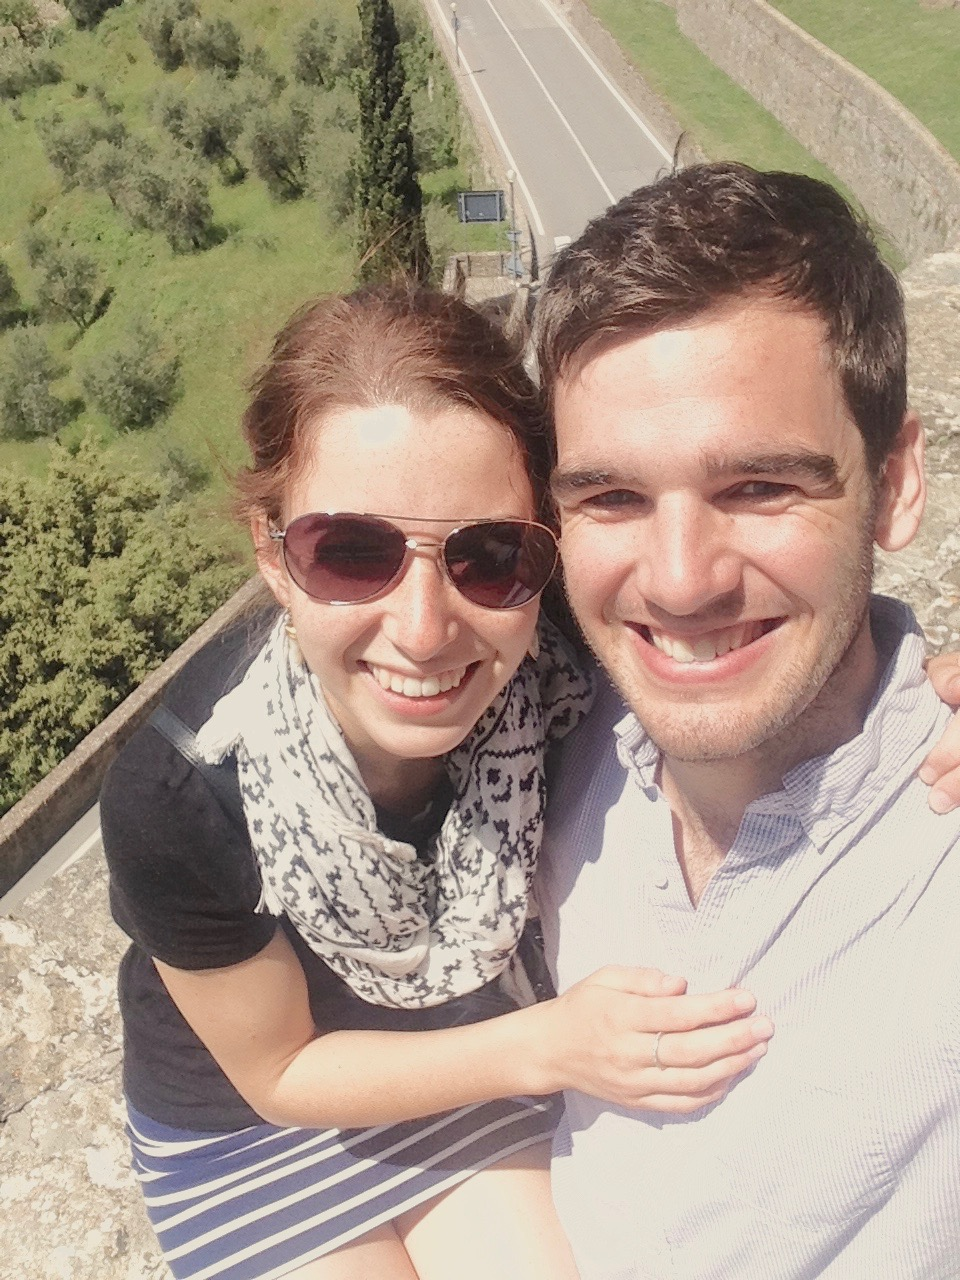
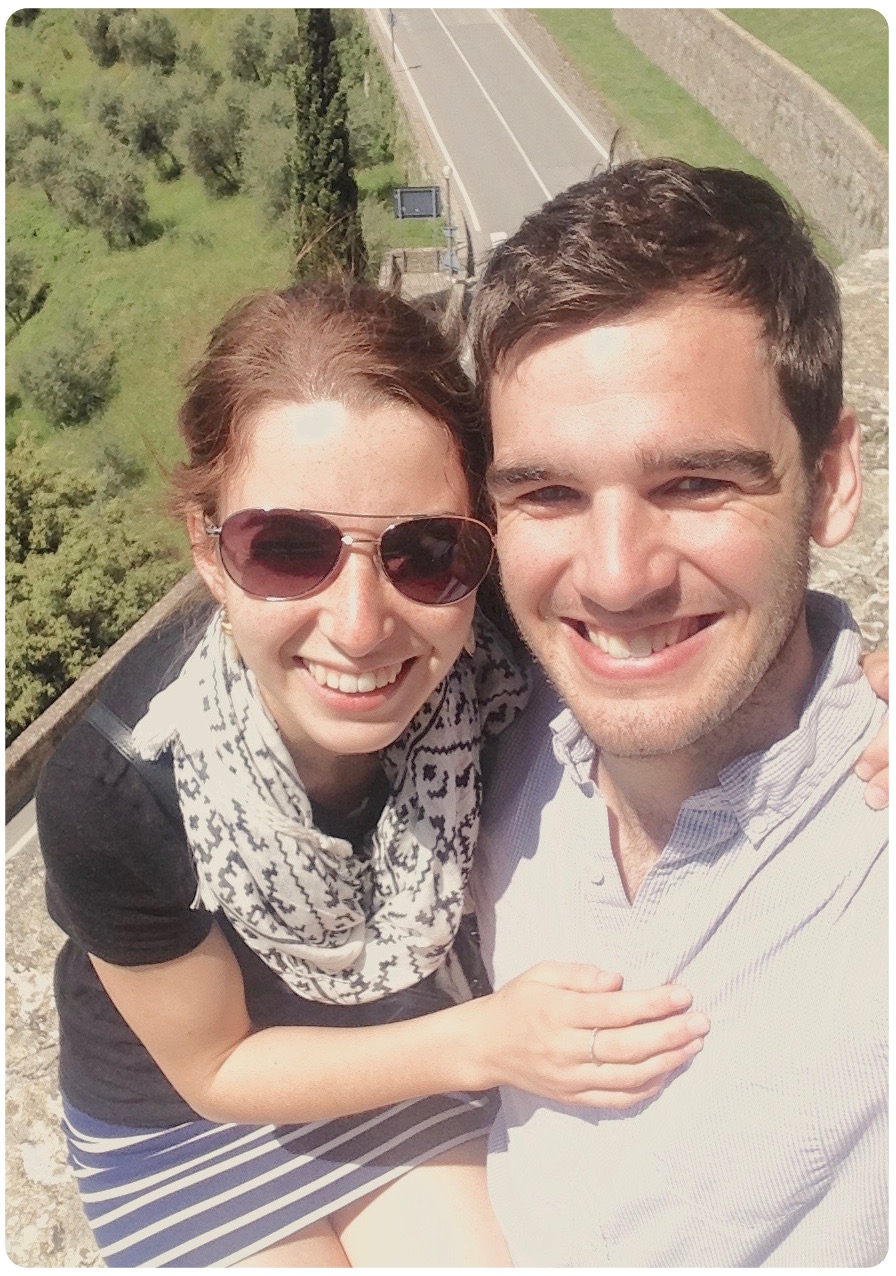
reformatting logistics
and add rounded corners to dan and kelsey picture

diff --git a/static/index.html b/static/index.html
@@ -266,26 +266,28 @@
 <div class="cd-color-1">
     <div class="container">
         <a name="details" class="anchor">anchor</a>
-        <div class="row section small-padding">
-            <h4>Useful Details</h4>
-            <p><b>Venue</b></p>
-            <p>The venue is a small estate situated on a seaside cliff off Highway 1 in Big Sur.</p>
-            <p><b>Weather</b></p>
-            <p>Expect sunny daytime temperatures in the high seventies and evening temperatures in the fifties. Some wind and fog is possible. Rain is very unlikely.</p>
-            <p><b>Schedule</b></p>
-            <ul>
-                <li>2:30pm - guests begin arriving</li>
-                <li>3:30pm - ceremony outside next to the ocean</li>
-                <li>4:30pm - cocktail hour</li>
-                <li>6:00pm - dinner on the deck followed by toasts</li>
-            </ul>
-            <p>Sunset is at 7:30pm with dancing to follow.</p>
-            <p><b>Transportation</b></p>
-            <p>Parking is very limited, so we are providing shuttle service from Carmel to the venue in Big Sur.</p>
-            <p>Pick-up and drop-off at Starbucks at The Crossroads Carmel, 3650 Rio Rd, Carmel, CA 93923. Approximately 1 hour drive time. </p>
-            <p>Departing pick-up times are 1:00 pm and 1:30 pm. Return pick-up times are 8:00 pm and 9:30 pm.</p>
-            <p><b>Attire</b></p>
-            <p>Summer cocktail party.</p>
+        <div class="row section small-padding"><h4>Useful Details</h4></div>
+        <div class="row section small-padding left">
+            <div class="six columnns">
+                <p><b>Venue</b></p>
+                <p>The venue is a small estate situated on a seaside cliff off Highway 1 in Big Sur.</p>
+                <p><b>Weather</b></p>
+                <p>Expect sunny daytime temperatures in the high seventies and evening temperatures in the fifties. Some wind and fog is possible. Rain is very unlikely.</p>
+                <p><b>Attire</b></p>
+                <p>Summer cocktail party.</p>
+            </div>
+            <div class="six columns">
+              <p><b>Schedule</b></p>
+              <ul>
+                  <li>2:30pm - guests begin arriving</li>
+                  <li>3:30pm - ceremony outside next to the ocean</li>
+                  <li>4:30pm - cocktail hour</li>
+                  <li>6:00pm - dinner on the deck followed by toasts</li>
+              </ul>
+              <p>Sunset is at 7:30pm with dancing to follow.</p>
+              <p><b>Transportation</b></p>
+              <p>Parking is very limited, so we are providing shuttle service from Carmel to the venue in Big Sur.<br>Pick-up and drop-off at Starbucks at The Crossroads Carmel, 3650 Rio Rd, Carmel, CA 93923. Approximately 1 hour drive time.<br>Departing pick-up times are 1:00 pm and 1:30 pm. Return pick-up times are 8:00 pm and 9:30 pm.</p>
+            </div>
         </div>
     </div>
 </div>

diff --git a/static/css/custom.css b/static/css/custom.css
@@ -105,7 +105,7 @@ body, html, main {
 }
 
 /* Hi Res iPad*/
-@media only screen and (min-device-width : 768px) and (max-device-width : 1024px) and (-webkit-min-device-pixel-ratio: 2) { 
+@media only screen and (min-device-width : 768px) and (max-device-width : 1024px) and (-webkit-min-device-pixel-ratio: 2) {
         .cd-fixed-bg{
         background-attachment: scroll;
     }
@@ -165,6 +165,10 @@ body, html, main {
 
 /* Logistics
  –––––––––––––––––––––––––––––––––––––––––––––––––– */
+.left {
+  text-align: left;
+}
+
 #big-day-bg {
     background-color: rgb(230,230,230) ;
     padding: 2.5%;
@@ -191,8 +195,8 @@ body, html, main {
 }
 
  .overlay {
-   background:transparent; 
-   position:relative; 
+   background:transparent;
+   position:relative;
    height:450px; /* your iframe height */
    top:450px;  /* your iframe height */
    margin-top:-450px;  /* your iframe height */
@@ -217,7 +221,7 @@ body, html, main {
 
 .explore-img {
     background-repeat: no-repeat;
-    background-position: left; 
+    background-position: left;
     background-size: auto 100% ;
     height: 300px;
 }
@@ -229,22 +233,22 @@ body, html, main {
 
 #julia-pfeiffer {
     background-image: url("../images/JuliaPfeiffer.jpg");
-    background-position: left; 
+    background-position: left;
 }
 
 #carmel {
     background-image: url("../images/carmel.jpg");
-    background-position: center; 
+    background-position: center;
 }
 
 #bixby {
     background-image: url("../images/bixby.jpg");
-    background-position: center; 
+    background-position: center;
 }
 
 #santalucia {
     background-image: url("../images/santalucia.jpg");
-    background-position: center; 
+    background-position: center;
 }
 
 .explore-top-padding {
